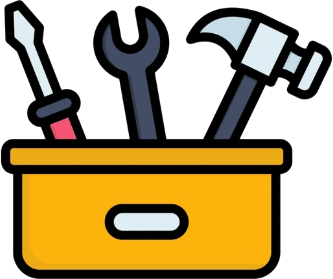
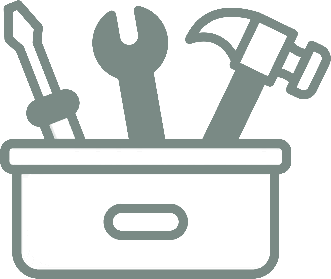
下午4:23：報修工具箱改成跟其他圖示一樣的灰綠色

diff --git a/index.html b/index.html
@@ -13,9 +13,9 @@
   <link rel="manifest" href="manifest.json" />
   <link rel="apple-touch-icon" href="apple-touch-icon.png" />
   <title>統潔＆信潔開發有限公司 — 租房管理</title>
-  <link rel="stylesheet" href="app.css?v=0965" />
-  <link rel="stylesheet" href="plan-icon.css?v=0965" />
-  <link rel="stylesheet" href="work-scroll.css?v=0965" />
+  <link rel="stylesheet" href="app.css?v=0966" />
+  <link rel="stylesheet" href="plan-icon.css?v=0966" />
+  <link rel="stylesheet" href="work-scroll.css?v=0966" />
   <style>
     html, body { margin: 0; background: #ffffff; }
     #splash {
@@ -52,8 +52,8 @@
       catch (e) { return false; }
     }
   </script>
-  <script src="app.js?v=0965"></script>
-  <script src="work-enhance.js?v=0965"></script>
+  <script src="app.js?v=0966"></script>
+  <script src="work-enhance.js?v=0966"></script>
   <script>setTimeout(function(){ var s=document.getElementById("splash"); if(s) s.classList.add("out"); }, 3500);</script>
 </body>
 </html>

diff --git a/plan-icon.css b/plan-icon.css
@@ -1,6 +1,6 @@
 .move-pick-plan {
   background-color: #62765b;
-  -webkit-mask: url("images/plan-mark.png?v=0965") center / 20px 20px no-repeat;
-  mask: url("images/plan-mark.png?v=0965") center / 20px 20px no-repeat;
+  -webkit-mask: url("images/plan-mark.png?v=0966") center / 20px 20px no-repeat;
+  mask: url("images/plan-mark.png?v=0966") center / 20px 20px no-repeat;
 }
 .move-pick-plan img { opacity: 0; }

diff --git a/sw.js b/sw.js
@@ -1,5 +1,5 @@
-const CACHE = "tongjie-app-v1480";
-const BUILD = "20260925-0965";
+const CACHE = "tongjie-app-v1481";
+const BUILD = "20260925-0966";
 const FILES = ["/", "/index.html", "/app.css", "/app.js", "/work-scroll.css", "/work-enhance.js", "/manifest.json", "/icon-192.png", "/icon-512.png", "/icon-maskable-512.png"];
 self.addEventListener("install", e => {
   self.skipWaiting();
